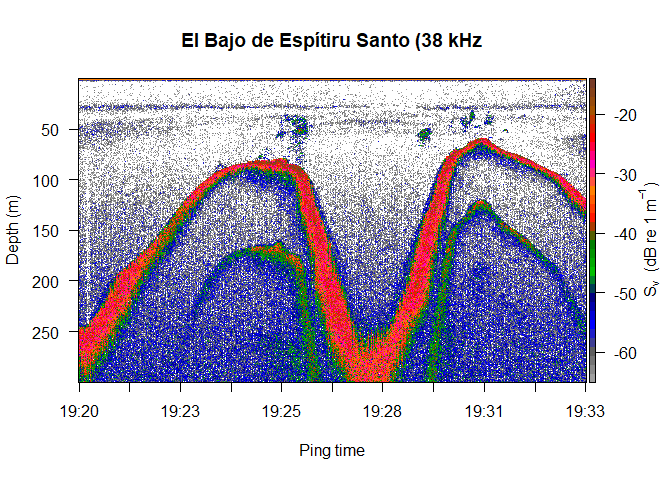
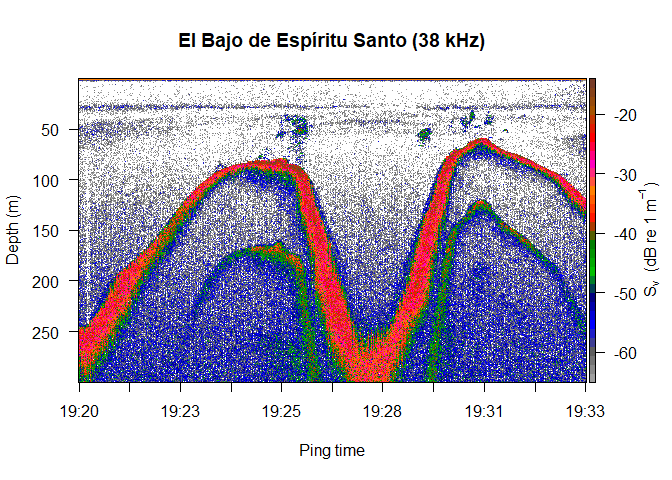
corrección error en gráfico

Changed region(s): [[0.25, 0.0625, 0.7188, 0.125]]

diff --git a/Proc_datos_EK80_en_R_y_Python.md b/Proc_datos_EK80_en_R_y_Python.md
@@ -309,7 +309,7 @@ eco$pings$pingTime <- with_tz(eco$pings$pingTime, tzone = "America/Mazatlan")
 ```
 
 ``` r
-echogram(eco, scheme = "EK500", Svthr = -65, Svmax = -15, col.sep = 1.5, x.ref = "s", depth.max = 300, main = "El Bajo de Espítiru Santo (38 kHz")
+echogram(eco, scheme = "EK500", Svthr = -65, Svmax = -15, col.sep = 1.5, x.ref = "s", depth.max = 300, main = "El Bajo de Espíritu Santo (38 kHz)")
 ```
 
 ![](Proc_datos_EK80_en_R_y_Python_files/figure-commonmark/unnamed-chunk-22-1.png)
